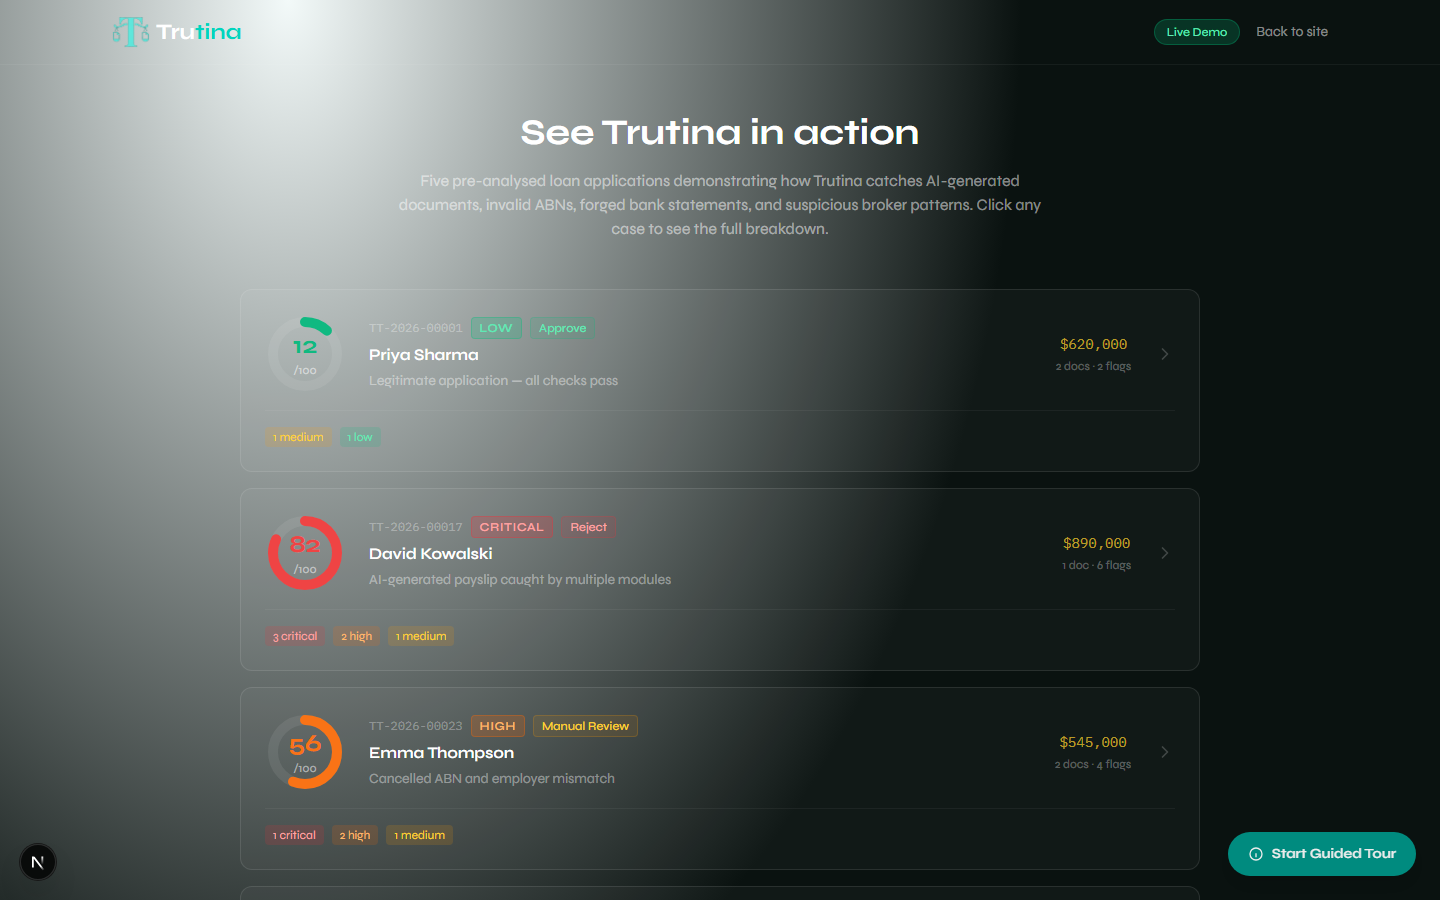
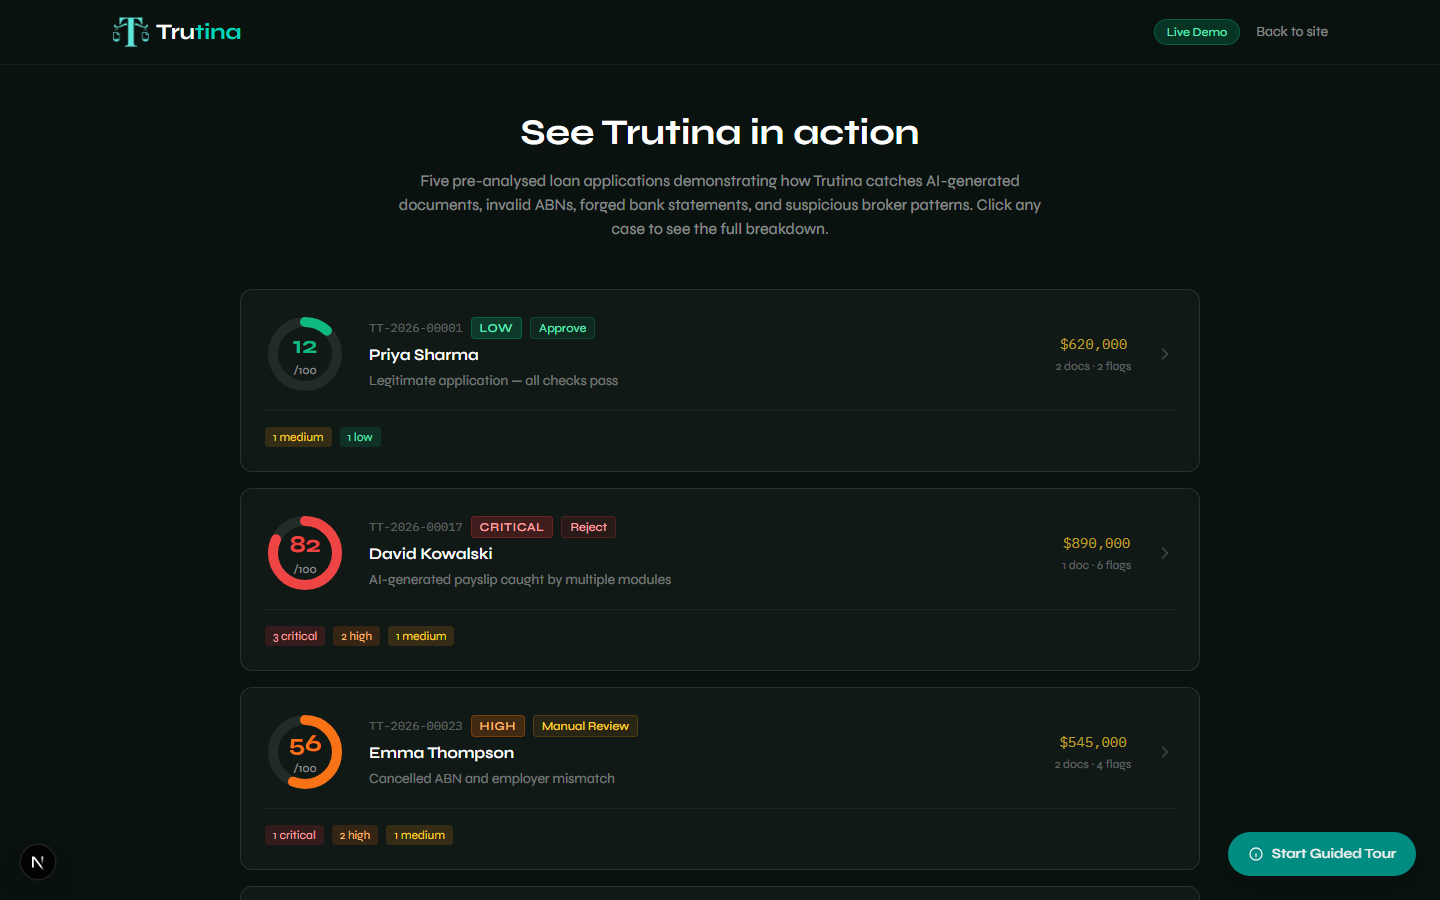
Remove radial gradient glare entirely - use flat #0a1210 background
The teal gradient glow was too harsh even at reduced opacity.
Replaced with flat dark background across all 13 pages.
Updated screenshots.

diff --git a/frontend/app/login/page.tsx b/frontend/app/login/page.tsx
@@ -62,7 +62,7 @@ export default function LoginPage() {
 
   return (
     <div className="min-h-screen flex items-center justify-center bg-[#0a1210]"
-      style={{ background: 'radial-gradient(ellipse at 20% 50%, rgba(13,148,136,0.04) 0%, #0a1210 45%)' }}>
+      style={{ background: '#0a1210' }}>
       <div className="w-full max-w-sm">
         <div className="text-center mb-8">
           <Logo href="" className="text-3xl justify-center" />

diff --git a/frontend/app/docs/page.tsx b/frontend/app/docs/page.tsx
@@ -71,7 +71,7 @@ const DOCS = [
 export default function DocsHub() {
   return (
     <div className="min-h-screen text-white"
-      style={{ background: 'radial-gradient(ellipse at 20% 0%, rgba(13,148,136,0.05) 0%, #0a1210 45%)' }}>
+      style={{ background: '#0a1210' }}>
 
       <nav className="border-b border-white/5">
         <div className="flex items-center justify-between px-4 sm:px-8 py-4 max-w-7xl mx-auto">

diff --git a/frontend/app/docs/pitch/page.tsx b/frontend/app/docs/pitch/page.tsx
@@ -562,7 +562,7 @@ export default function PitchDeck() {
 
   return (
     <div className="h-screen overflow-hidden text-white select-none"
-      style={{ background: 'radial-gradient(ellipse at 20% 0%, rgba(13,148,136,0.05) 0%, #0a1210 45%)' }}>
+      style={{ background: '#0a1210' }}>
 
       {/* Top bar */}
       <div className="fixed top-0 left-0 right-0 z-50 flex items-center justify-between px-4 sm:px-6 py-3">

diff --git a/frontend/app/page.tsx b/frontend/app/page.tsx
@@ -102,7 +102,7 @@ export default function Landing() {
 
   return (
     <div className="min-h-screen text-white"
-      style={{ background: 'radial-gradient(ellipse at 20% 0%, rgba(13,148,136,0.05) 0%, #0a1210 45%)' }}>
+      style={{ background: '#0a1210' }}>
 
       <LoginModal open={loginMode !== null} onClose={() => setLoginMode(null)} mode={loginMode ?? 'signin'} onSwitchMode={setLoginMode} />
 

diff --git a/frontend/app/demo/[id]/page.tsx b/frontend/app/demo/[id]/page.tsx
@@ -54,7 +54,7 @@ export default function DemoCaseDetail({ params }: { params: Promise<{ id: strin
 
   return (
     <div className="min-h-screen text-white"
-      style={{ background: 'radial-gradient(ellipse at 20% 0%, rgba(13,148,136,0.05) 0%, #0a1210 45%)' }}>
+      style={{ background: '#0a1210' }}>
 
       {/* Nav */}
       <nav className="border-b border-white/5">

diff --git a/frontend/app/docs/security/page.tsx b/frontend/app/docs/security/page.tsx
@@ -44,7 +44,7 @@ export default function SecurityWhitepaper() {
       `}} />
 
       <div className="min-h-screen text-white print-page"
-        style={{ background: 'radial-gradient(ellipse at 20% 0%, rgba(13,148,136,0.05) 0%, #0a1210 45%)' }}>
+        style={{ background: '#0a1210' }}>
 
         {/* Nav */}
         <nav className="border-b border-white/5 no-print">

diff --git a/frontend/app/docs/one-pager/page.tsx b/frontend/app/docs/one-pager/page.tsx
@@ -106,7 +106,7 @@ export default function OnePager() {
       `}} />
 
       <div className="min-h-screen text-white print-page"
-        style={{ background: 'radial-gradient(ellipse at 20% 0%, rgba(13,148,136,0.05) 0%, #0a1210 45%)' }}>
+        style={{ background: '#0a1210' }}>
 
         {/* Screen nav */}
         <nav className="border-b border-white/5 no-print">

diff --git a/frontend/app/docs/compliance/page.tsx b/frontend/app/docs/compliance/page.tsx
@@ -48,7 +48,7 @@ export default function ComplianceBrief() {
       `}} />
 
       <div className="min-h-screen text-white print-page"
-        style={{ background: 'radial-gradient(ellipse at 20% 0%, rgba(13,148,136,0.05) 0%, #0a1210 45%)' }}>
+        style={{ background: '#0a1210' }}>
 
         {/* Nav */}
         <nav className="border-b border-white/5 no-print">

diff --git a/frontend/app/docs/integration/page.tsx b/frontend/app/docs/integration/page.tsx
@@ -175,7 +175,7 @@ export default function IntegrationGuide() {
 
       <div
         className="min-h-screen text-white"
-        style={{ background: 'radial-gradient(ellipse at 20% 0%, rgba(13,148,136,0.05) 0%, #0a1210 45%)' }}
+        style={{ background: '#0a1210' }}
       >
         {/* Nav */}
         <nav className="border-b border-white/5 no-print">

diff --git a/frontend/app/docs/roi/page.tsx b/frontend/app/docs/roi/page.tsx
@@ -113,7 +113,7 @@ export default function ROICalculator() {
 
       <div
         className="min-h-screen text-white"
-        style={{ background: 'radial-gradient(ellipse at 20% 0%, rgba(13,148,136,0.05) 0%, #0a1210 45%)' }}
+        style={{ background: '#0a1210' }}
       >
         {/* Nav */}
         <nav className="border-b border-white/5 no-print">

diff --git a/frontend/app/demo/page.tsx b/frontend/app/demo/page.tsx
@@ -23,7 +23,7 @@ const ACTION_LABEL = {
 export default function DemoPage() {
   return (
     <div className="min-h-screen text-white"
-      style={{ background: 'radial-gradient(ellipse at 20% 0%, rgba(13,148,136,0.05) 0%, #0a1210 45%)' }}>
+      style={{ background: '#0a1210' }}>
 
       {/* Nav */}
       <nav className="border-b border-white/5">

diff --git a/frontend/app/docs/quickstart/page.tsx b/frontend/app/docs/quickstart/page.tsx
@@ -135,7 +135,7 @@ export default function QuickStartGuide() {
       className="min-h-screen text-white"
       style={{
         background:
-          'radial-gradient(ellipse at 20% 0%, rgba(13,148,136,0.05) 0%, #0a1210 45%)',
+          '#0a1210',
       }}
     >
       {/* Nav */}
